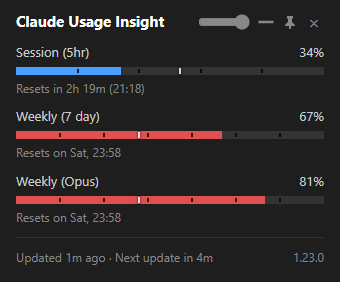
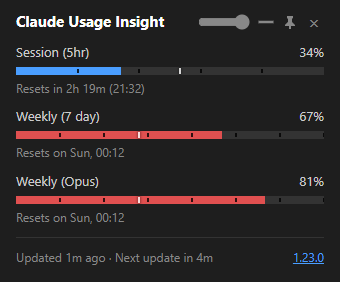
feat: open the project from the popup's version number
The popup carried a link to the Claude Code changelog but none to the
application itself, so the repository was reachable only through the tray
menu - which the popup replaces for most people.

The repository URL is the tooltip rather than a translated label: it needs
no entry in thirteen locale files, and it tells the reader where the click
goes before they make it.

diff --git a/usage_monitor_for_claude/popup/popup.js b/usage_monitor_for_claude/popup/popup.js
@@ -19,7 +19,7 @@ let lastData = null;
  * Called once by Python after the page loads.  Translations are set as
  * textContent on heading elements so the HTML file stays language-neutral.
  *
- * @param {object} config - { colors, t (translations), app_version, data (initial snapshot) }
+ * @param {object} config - { colors, t (translations), app_version, project_url, data (initial snapshot) }
  */
 function init(config) {
     const s = document.documentElement.style;
@@ -46,7 +46,12 @@ function init(config) {
     setupPinButton();
     setupPinnedDrag();
 
-    document.getElementById('appVersion').textContent = config.app_version;
+    const appVersion = document.getElementById('appVersion');
+    appVersion.textContent = config.app_version;
+    // The URL is the tooltip, so the entry needs no translation of its own and
+    // the user sees where the click goes before making it.
+    appVersion.title = config.project_url || '';
+    appVersion.addEventListener('click', () => pywebview.api.open_project());
 
     els = {
         accountSection: document.getElementById('accountSection'),

diff --git a/usage_monitor_for_claude/popup/dev.html b/usage_monitor_for_claude/popup/dev.html
@@ -252,7 +252,7 @@ async function applyLanguage(code) {
     // Demo set so toggling the pin button previews compact hiding of both
     // whole sections and an individual usage bar.
     const compactHide = ['account', 'extra_usage', 'claude_code', 'status', 'seven_day_opus'];
-    win().init({ colors: COLORS, t: buildTranslations(currentLocale), app_version: '1.13.0', compact_hide: compactHide, data: resolveData(currentPreset, currentLocale) });
+    win().init({ colors: COLORS, t: buildTranslations(currentLocale), app_version: '1.13.0', project_url: 'https://github.com/danilo62x/claude-usage-insight', compact_hide: compactHide, data: resolveData(currentPreset, currentLocale) });
 }
 
 function loadPreset(name) {

diff --git a/usage_monitor_for_claude/popup/popup.css b/usage_monitor_for_claude/popup/popup.css
@@ -218,7 +218,12 @@ footer {
         white-space: nowrap;
     }
 
-    & > #appVersion { flex-shrink: 0; }
+    & > #appVersion {
+        flex-shrink: 0;
+        color: var(--fg-link);
+        text-decoration: underline;
+        cursor: pointer;
+    }
 
     &.error > #statusText { color: var(--bar-fg-warn); }
 }

diff --git a/usage_monitor_for_claude/popup.py b/usage_monitor_for_claude/popup.py
@@ -22,7 +22,7 @@ from typing import TYPE_CHECKING, Any
 import webview  # type: ignore[import-untyped]  # no type stubs available
 
 from . import __version__
-from .claude_cli import CHANGELOG_URL, find_installations
+from .claude_cli import CHANGELOG_URL, PROJECT_URL, find_installations
 from .formatting import divider_positions, elapsed_pct, expand_popup_fields, field_period, format_credits, popup_label, time_until
 from .i18n import T
 from .window_state import load as load_state, update as update_state
@@ -196,6 +196,7 @@ def _init_config(snap: CacheSnapshot, next_poll_time: float | None = None) -> di
             'duration_hm': T['duration_hm'], 'duration_m': T['duration_m'], 'duration_s': T['duration_s'],
         },
         'app_version': __version__,
+        'project_url': PROJECT_URL,
         'compact_hide': COMPACT_HIDE,
         'compact': bool(load_state().get('popup_compact', False)),
         'opacity': int(load_state().get('popup_opacity', 100)),
@@ -218,6 +219,9 @@ class _PopupApi:
 
     def open_url(self) -> None:
         webbrowser.open(CHANGELOG_URL)
+
+    def open_project(self) -> None:
+        webbrowser.open(PROJECT_URL)
 
     def set_pinned(self, pinned: bool) -> bool:
         return self._popup._set_pinned(pinned)

diff --git a/tests/test_popup.py b/tests/test_popup.py
@@ -574,11 +574,11 @@ class TestInitConfig(unittest.TestCase):
     """Tests for _init_config - builds the JS init() config object."""
 
     def test_top_level_keys(self):
-        """Config has colors, t, app_version, the view options, and data."""
+        """Config has colors, t, the versions, the view options, and data."""
         config = _init_config(_snap())
         self.assertEqual(
             set(config.keys()),
-            {'colors', 't', 'app_version', 'compact_hide', 'compact', 'opacity', 'data'},
+            {'colors', 't', 'app_version', 'project_url', 'compact_hide', 'compact', 'opacity', 'data'},
         )
 
     @patch('usage_monitor_for_claude.popup.COMPACT_HIDE', ['account', 'seven_day_opus'])

diff --git a/CHANGELOG.md b/CHANGELOG.md
@@ -23,7 +23,7 @@ and this project adheres to [Semantic Versioning](https://semver.org/spec/v2.0.0
 
 - A Claude Code CLI installed inside WSL is now detected and listed automatically, instead of needing a `cli_command` entry
 - The application is now called **Claude Usage Insight**, and the executable `ClaudeUsageInsight.exe`. The old and the new build still exclude each other, so an account is never polled twice
-- The GitHub entry in the tray menu now opens this fork's repository
+- The GitHub entry in the tray menu now opens this fork's repository, and the version number in the popup's footer opens it too
 
 ### Removed
 
